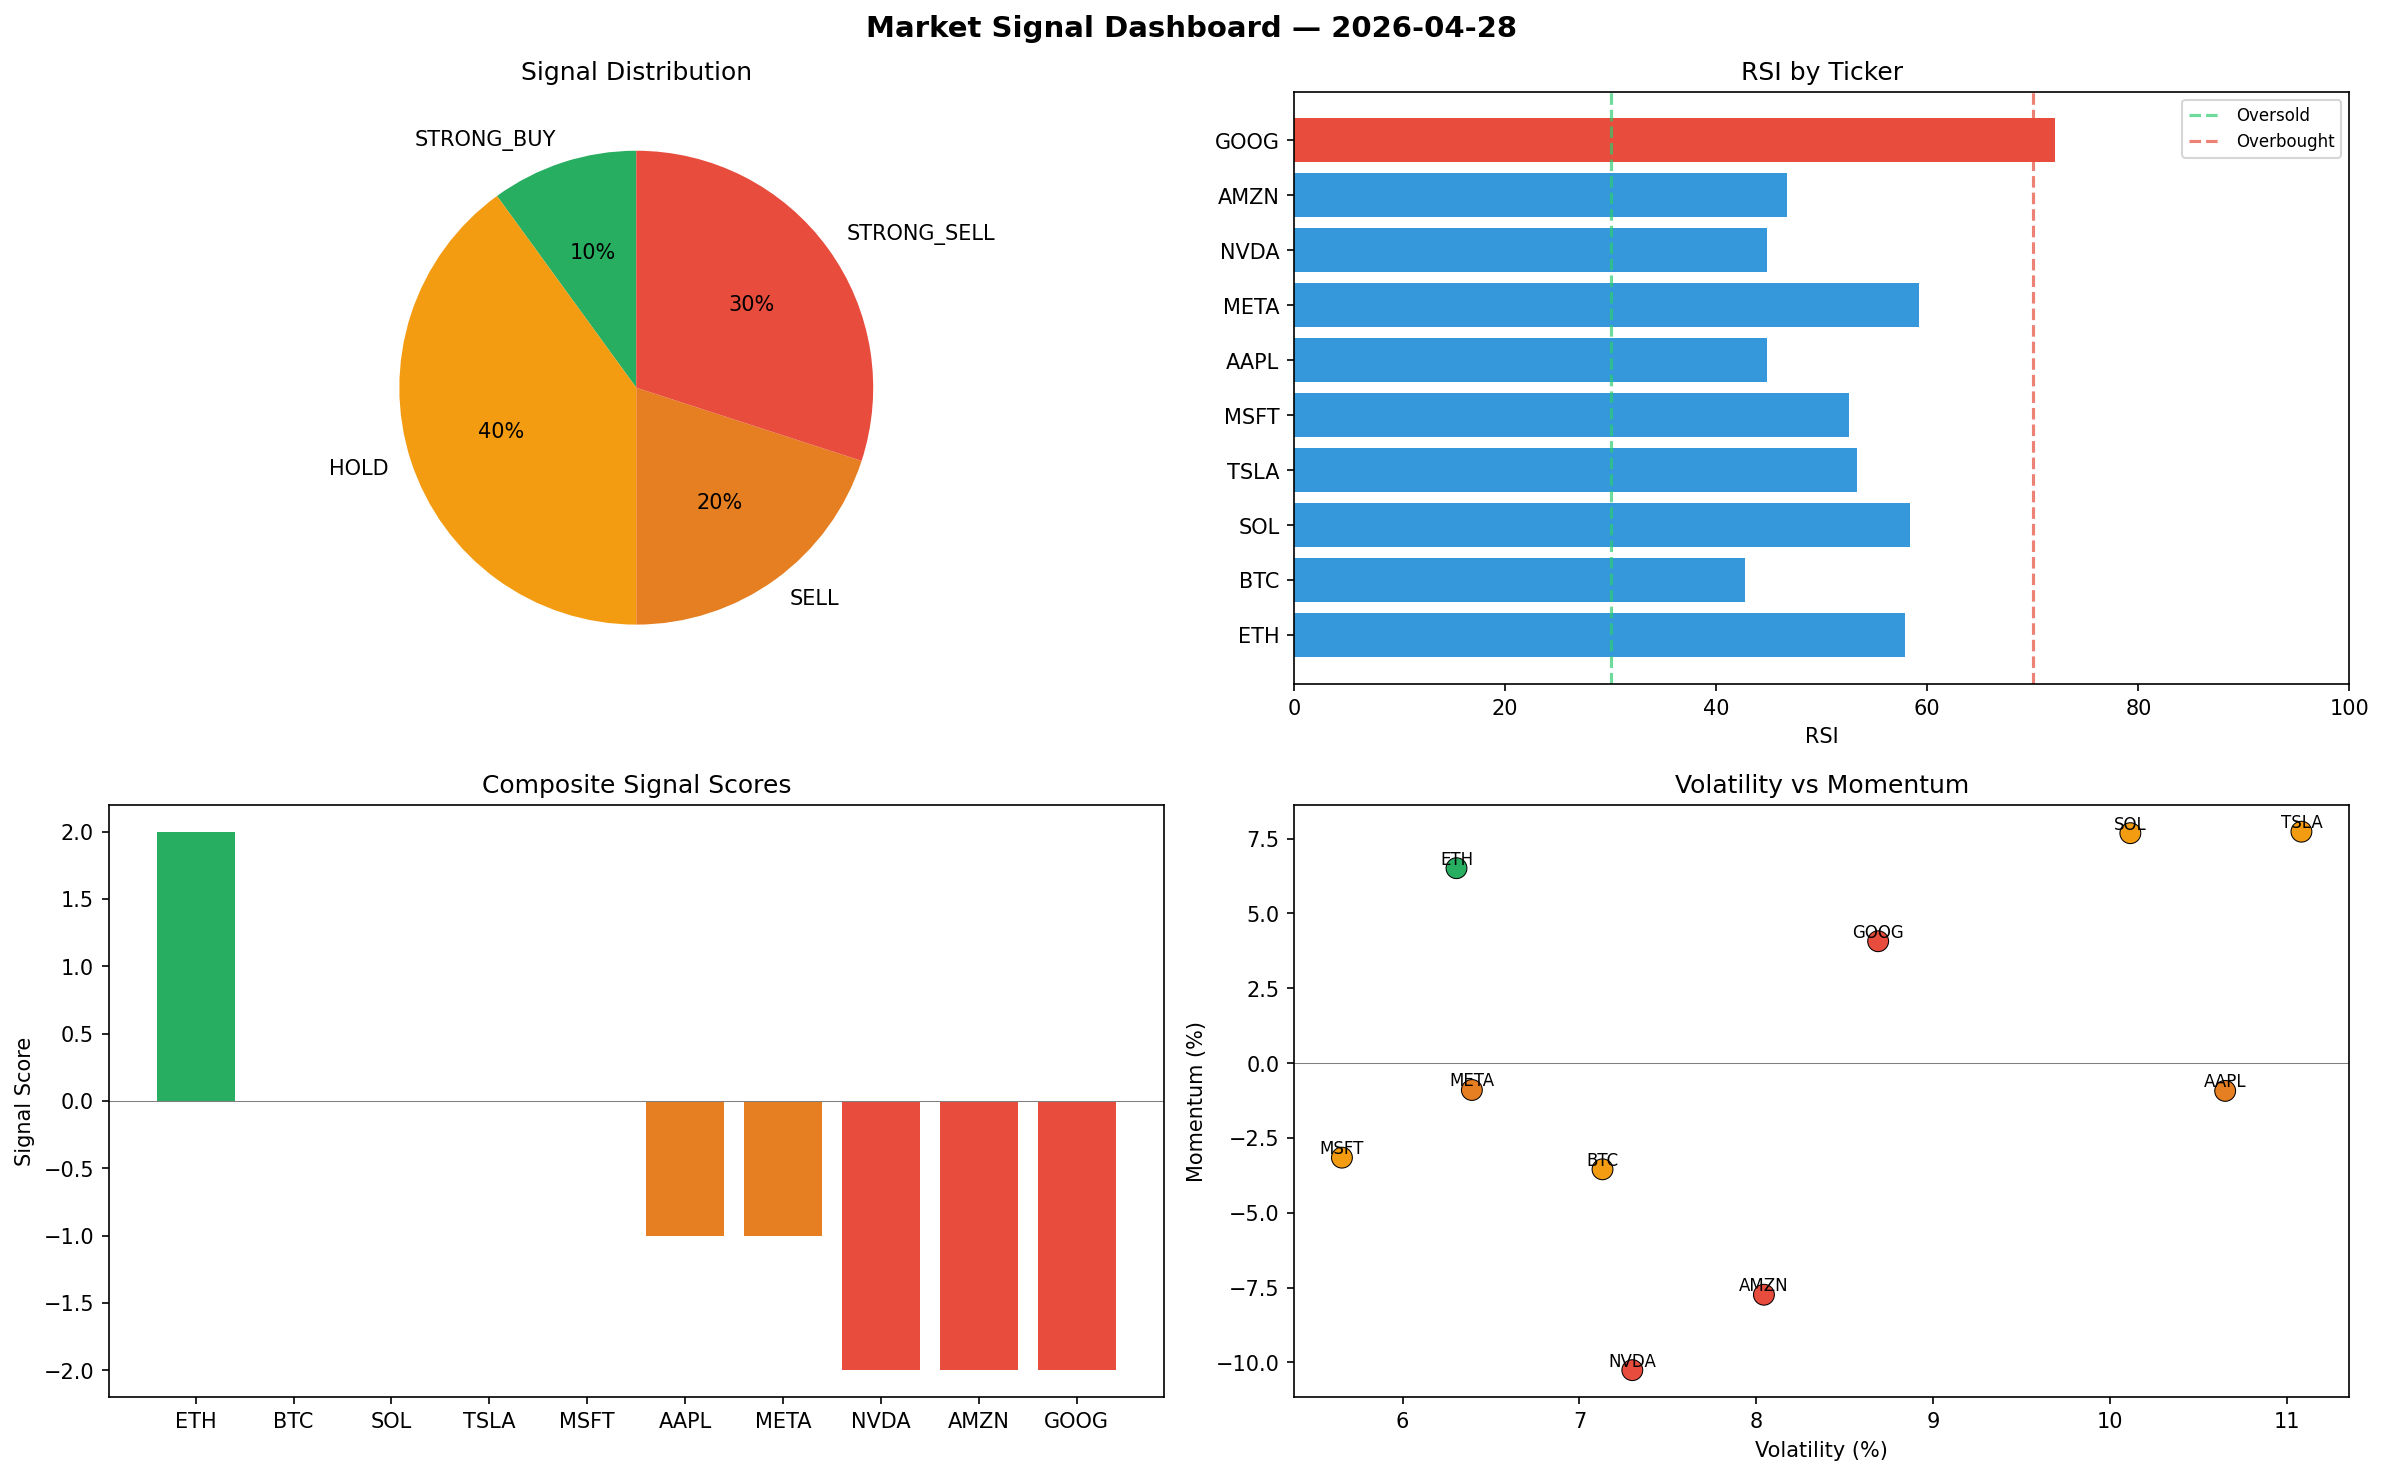
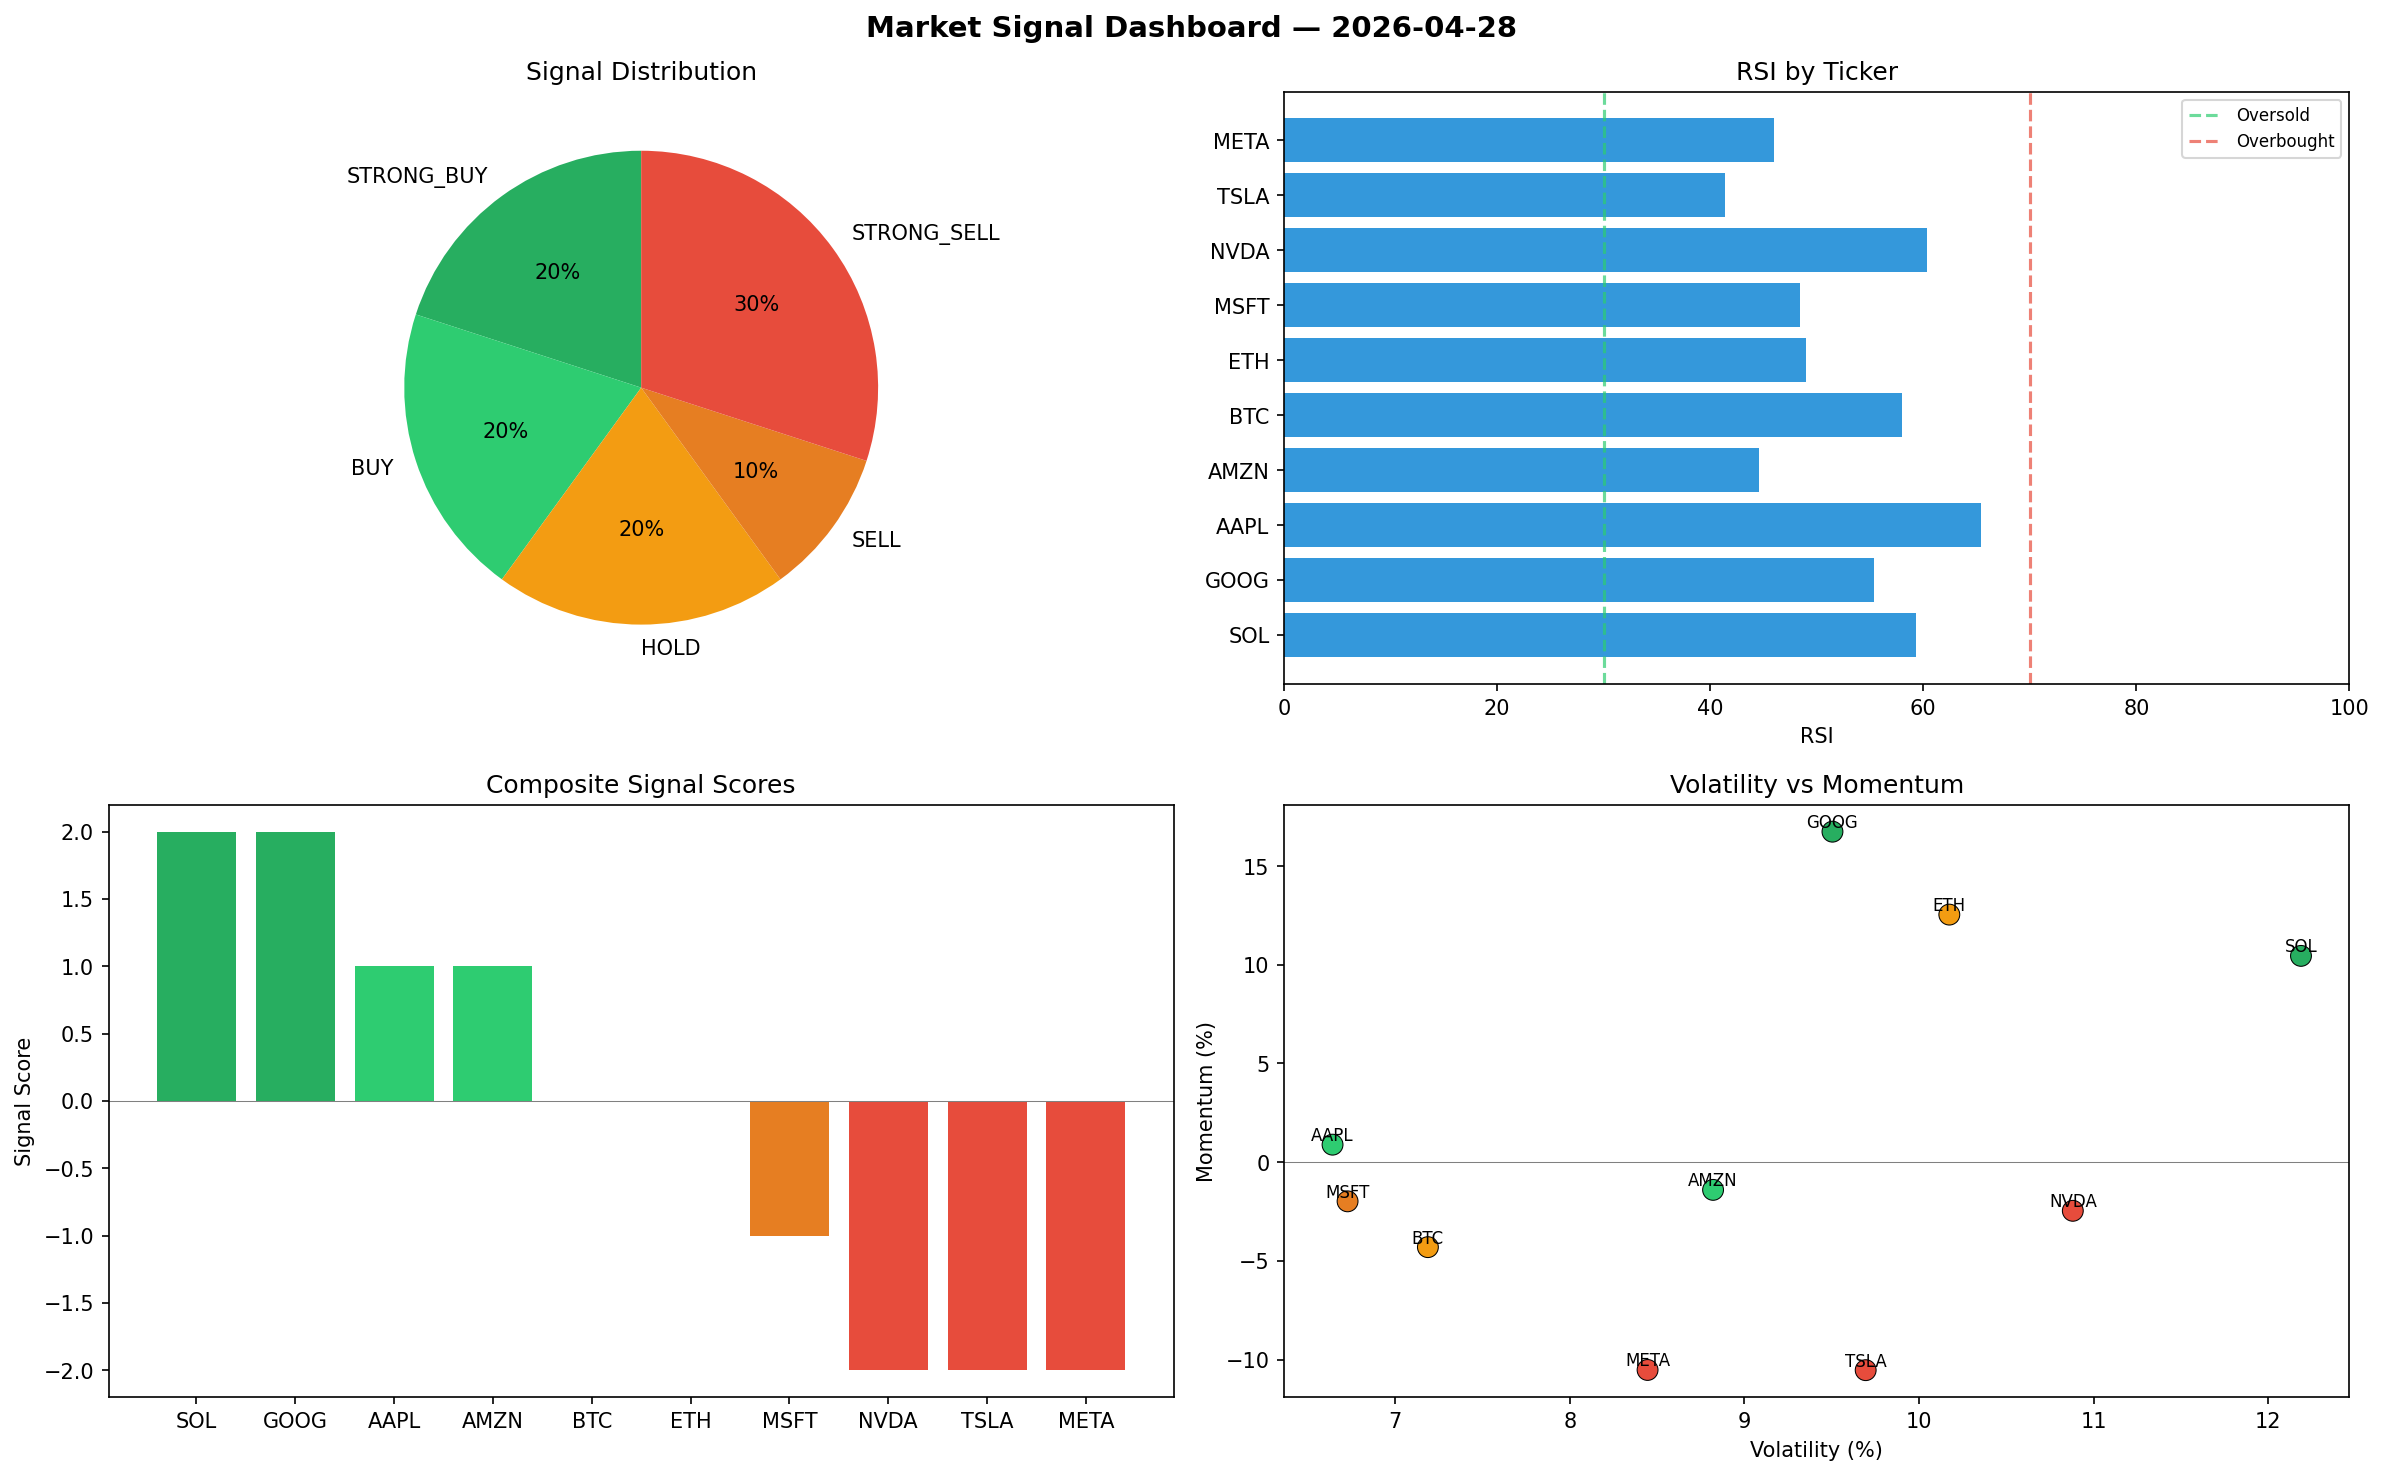
automated-bots: market signals 2026-04-28T16:22

diff --git a/logs/2026-04-28.md b/logs/2026-04-28.md
@@ -1,6 +1,6 @@
 # Market Signal Report — 2026-04-28
 
-**Run ID:** `f16c98e7f6` | **Buy:** 1 | **Sell:** 5 | **Hold:** 4
+**Run ID:** `a3f73d6952` | **Buy:** 4 | **Sell:** 4 | **Hold:** 2
 
 ![Dashboard](2026-04-28_dashboard.png)
 
@@ -8,28 +8,28 @@
 
 | Ticker | Price | Signal | Score | RSI | Momentum | Confidence |
 |--------|-------|--------|-------|-----|----------|------------|
-| ETH | $1268.87 | **STRONG_BUY** | 2 | 57.89 | 0.0651 | 0.5 |
-| BTC | $638.3 | **HOLD** | 0 | 42.71 | -0.0355 | 0.0 |
-| SOL | $3358.63 | **HOLD** | 0 | 58.35 | 0.0768 | 0.0 |
-| TSLA | $1472.35 | **HOLD** | 0 | 53.3 | 0.0773 | 0.0 |
-| MSFT | $3380.27 | **HOLD** | 0 | 52.56 | -0.0316 | 0.0 |
-| AAPL | $1738.69 | **SELL** | -1 | 44.78 | -0.0093 | 0.25 |
-| META | $4528.7 | **SELL** | -1 | 59.25 | -0.009 | 0.25 |
-| NVDA | $4566.61 | **STRONG_SELL** | -2 | 44.83 | -0.1026 | 0.5 |
-| AMZN | $2821.43 | **STRONG_SELL** | -2 | 46.71 | -0.0774 | 0.5 |
-| GOOG | $1119.17 | **STRONG_SELL** | -2 | 72.14 | 0.0407 | 0.5 |
+| SOL | $5881.56 | **STRONG_BUY** | 2 | 59.31 | 0.1045 | 0.5 |
+| GOOG | $392.94 | **STRONG_BUY** | 2 | 55.4 | 0.1674 | 0.5 |
+| AAPL | $278.96 | **BUY** | 1 | 65.44 | 0.0089 | 0.25 |
+| AMZN | $2456.14 | **BUY** | 1 | 44.58 | -0.014 | 0.25 |
+| BTC | $794.04 | **HOLD** | 0 | 58.02 | -0.043 | 0.0 |
+| ETH | $518.71 | **HOLD** | 0 | 49.01 | 0.1254 | 0.0 |
+| MSFT | $2790.13 | **SELL** | -1 | 48.44 | -0.0198 | 0.25 |
+| NVDA | $3771.48 | **STRONG_SELL** | -2 | 60.35 | -0.0246 | 0.5 |
+| TSLA | $2778.83 | **STRONG_SELL** | -2 | 41.34 | -0.1053 | 0.5 |
+| META | $1770.93 | **STRONG_SELL** | -2 | 45.94 | -0.1052 | 0.5 |
 
 ## Delta vs Yesterday
 
 | Ticker | Today | Yesterday | Price Change | Signal Changed |
 |--------|-------|-----------|-------------|----------------|
-| ETH | STRONG_BUY | BUY | 📉 -1.45% | ⚠ YES |
-| BTC | HOLD | HOLD | 📉 -71.65% | — |
-| SOL | HOLD | STRONG_SELL | 📈 7.88% | ⚠ YES |
-| TSLA | HOLD | STRONG_SELL | 📈 0.24% | ⚠ YES |
-| MSFT | HOLD | STRONG_BUY | 📉 -10.07% | ⚠ YES |
-| AAPL | SELL | HOLD | 📉 -62.76% | ⚠ YES |
-| META | SELL | BUY | 📈 8.24% | ⚠ YES |
-| NVDA | STRONG_SELL | STRONG_BUY | 📈 30.51% | ⚠ YES |
-| AMZN | STRONG_SELL | STRONG_BUY | 📉 -29.3% | ⚠ YES |
-| GOOG | STRONG_SELL | STRONG_SELL | 📉 -45.48% | — |
+| SOL | STRONG_BUY | STRONG_SELL | 📈 88.92% | ⚠ YES |
+| GOOG | STRONG_BUY | STRONG_SELL | 📉 -80.86% | ⚠ YES |
+| AAPL | BUY | HOLD | 📉 -94.02% | ⚠ YES |
+| AMZN | BUY | STRONG_BUY | 📉 -38.45% | ⚠ YES |
+| BTC | HOLD | HOLD | 📉 -64.73% | — |
+| ETH | HOLD | BUY | 📉 -59.71% | ⚠ YES |
+| MSFT | SELL | STRONG_BUY | 📉 -25.77% | ⚠ YES |
+| NVDA | STRONG_SELL | STRONG_BUY | 📈 7.78% | ⚠ YES |
+| TSLA | STRONG_SELL | STRONG_SELL | 📈 89.19% | — |
+| META | STRONG_SELL | BUY | 📉 -57.67% | ⚠ YES |
